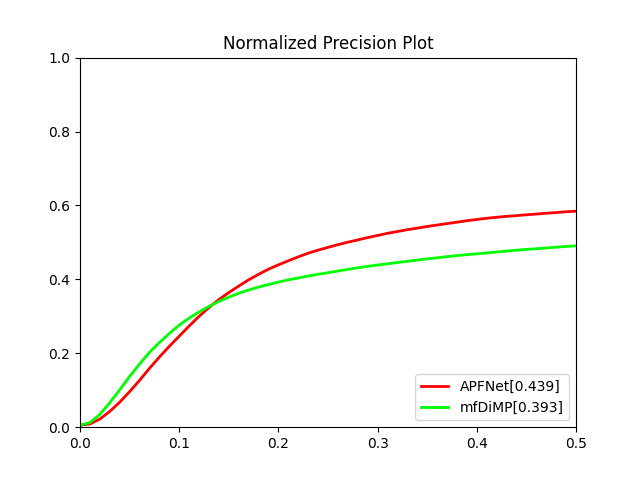
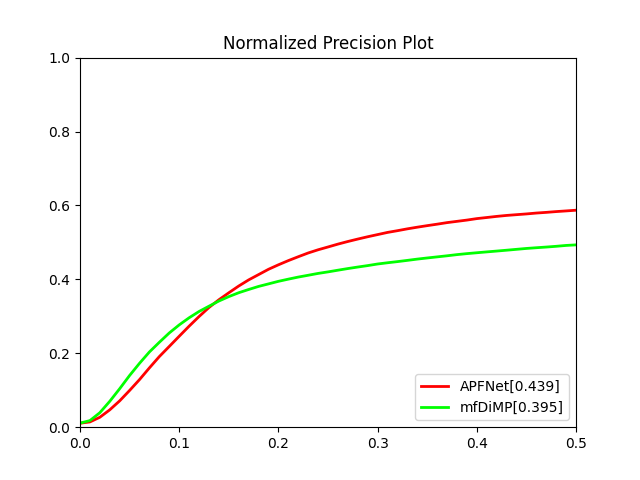
fixed errors in LasHeR. 2023.6.9

diff --git a/metrics/metrics.py b/metrics/metrics.py
@@ -81,48 +81,6 @@ class MSR(Metric):
 
 
 
-
-class NPR(Metric):
-    """
-    Normalized Precision Rate.
-    """
-    def __init__(self, thr=np.linspace(0, 0.5, 51)) -> None:
-        super().__init__()
-        self.thr = thr
-
-
-    def __call__(self, dataset:BaseRGBTDataet, result:TrackerResult, seqs:list):
-        pr=[]
-        for seq_name in seqs:
-            try:
-                gt = dataset[seq_name]
-                serial = result[seq_name]
-                serial[0] = gt[0]       # ignore the first frame
-            except:
-                gt = dataset[seq_name]['visible']
-                serial = result[seq_name]
-                serial[0] = gt[0]       # ignore the first frame
-            # cut off tracking result
-            serial = serial[:len(gt)]   
-            # handle the invailded tracking result
-            for i in range(len(gt)-1, -1, -1):
-                if (gt[i][2]-gt[i][0])<=0 or (gt[i][3]-gt[i][1])<=0:
-                    del gt[i]
-                    del serial[i]
-            res = np.array(serial_process(CLE, serial, gt, need_normalize=True))
-
-            pr_cell = []
-            for i in self.thr:
-                pr_cell.append(np.sum(res<=i)/len(res))
-            pr.append(pr_cell)
-        pr = np.array(pr)
-        pr_val = pr.mean(axis=0)[20]
-        return pr_val, pr
-
-
-
-
-
 class PR(Metric):
     """
     Precision Rate.
@@ -143,19 +101,13 @@ class PR(Metric):
                 gt = dataset[seq_name]['visible']
                 serial = result[seq_name]
                 serial[0] = gt[0]       # ignore the first frame
-            # cut off tracking result
-            serial = serial[:len(gt)]   
-            # handle the invailded tracking result
-            for i in range(len(gt)-1, -1, -1):
-                if (gt[i][2]-gt[i][0])<=0 or (gt[i][3]-gt[i][1])<=0:
-                    del gt[i]
-                    del serial[i]
             res = np.array(serial_process(CLE, serial, gt))
 
             pr_cell = []
             for i in self.thr:
                 pr_cell.append(np.sum(res<=i)/len(res))
             pr.append(pr_cell)
+            
         pr = np.array(pr)
         pr_val = pr.mean(axis=0)[20]
         return pr_val, pr
@@ -185,13 +137,6 @@ class SR(Metric):
                 gt = dataset[seq_name]['visible']
                 serial = result[seq_name]
                 serial[0] = gt[0]       # ignore the first frame
-            # cut off tracking result
-            serial = serial[:len(gt)]   
-            # handle the invailded tracking result
-            for i in range(len(gt)-1, -1, -1):
-                if (gt[i][2]-gt[i][0])<=0 or (gt[i][3]-gt[i][1])<=0 :
-                    del gt[i]
-                    del serial[i]
             res = np.array(serial_process(IoU, serial, gt))
 
             sr_cell = []
@@ -202,4 +147,132 @@ class SR(Metric):
         sr = np.array(sr)
         sr_val = sr.mean()
         return sr_val, sr
+
+
+class SR_LasHeR(Metric):
+    """
+    Success Rate.
+    Different other dataset, LasHeR testingset need to filter some results.
+    """
+    def __init__(self, thr=np.linspace(0, 1, 21)) -> None:
+        super().__init__()
+        self.thr = thr
+
+
+    def __call__(self, dataset:BaseRGBTDataet, result:TrackerResult, seqs:list):
+    
+        sr=[]
+        for seq_name in seqs:
+            try:
+                gt = dataset[seq_name]
+                serial = result[seq_name]
+                serial[0] = gt[0]       # ignore the first frame
+            except:
+                gt = dataset[seq_name]['visible']
+                serial = result[seq_name]
+                serial[0] = gt[0]       # ignore the first frame
+            # cut off tracking result
+            serial = serial[:len(gt)]   
+            # handle the invailded tracking result
+            for i in range(1, len(gt)):
+                if serial[i][2]<=0 or serial[i][3]<=0:
+                    serial[i] = serial[i-1].copy()
+            res = np.array(serial_process(IoU, serial, gt))
+
+            for i in range(len(gt)):
+                if sum(gt[i]<=0):
+                    res[i]=-1
+
+            sr_cell = []
+            for i in self.thr:
+                sr_cell.append(np.sum(res>i)/len(res))
+            sr.append(sr_cell)
+
+        sr = np.array(sr)
+        sr_val = sr.mean()
+        return sr_val, sr
+    
+
+class PR_LasHeR(Metric):
+    """
+    Precision Rate.
+    Different other dataset, LasHeR testingset need to filter some results.
+    """
+    def __init__(self, thr=np.linspace(0, 50, 51)) -> None:
+        super().__init__()
+        self.thr = thr
+
+
+    def __call__(self, dataset:BaseRGBTDataet, result:TrackerResult, seqs:list):
+        pr=[]
+        for seq_name in seqs:
+            try:
+                gt = dataset[seq_name]
+                serial = result[seq_name]
+                serial[0] = gt[0]       # ignore the first frame
+            except:
+                gt = dataset[seq_name]['visible']
+                serial = result[seq_name]
+                serial[0] = gt[0]       # ignore the first frame
+            # cut off tracking result
+            serial = serial[:len(gt)]   
+            # handle the invailded tracking result
+            for i in range(1, len(gt)):
+                if serial[i][2]<=0 or serial[i][3]<=0:
+                    serial[i] = serial[i-1].copy()
+            res = np.array(serial_process(CLE, serial, gt))
+
+            for i in range(len(gt)):
+                if sum(gt[i]<=0):
+                    res[i]=-1
+
+            pr_cell = []
+            for i in self.thr:
+                pr_cell.append(np.sum(res<=i)/len(res))
+            pr.append(pr_cell)
+            
+        pr = np.array(pr)
+        pr_val = pr.mean(axis=0)[20]
+        return pr_val, pr
+
+
+class NPR(Metric):
+    """
+    Normalized Precision Rate.
+    """
+    def __init__(self, thr=np.linspace(0, 0.5, 51)) -> None:
+        super().__init__()
+        self.thr = thr
+
+
+    def __call__(self, dataset:BaseRGBTDataet, result:TrackerResult, seqs:list):
+        pr=[]
+        for seq_name in seqs:
+            try:
+                gt = dataset[seq_name]
+                serial = result[seq_name]
+                serial[0] = gt[0]       # ignore the first frame
+            except:
+                gt = dataset[seq_name]['visible']
+                serial = result[seq_name]
+                serial[0] = gt[0]       # ignore the first frame
+            # cut off tracking result
+            serial = serial[:len(gt)]   
+            # handle the invailded tracking result
+            for i in range(1, len(gt)):
+                if serial[i][2]<=0 or serial[i][3]<=0:
+                    serial[i] = serial[i-1].copy()
+            res = np.array(serial_process(CLE, serial, gt, need_normalize=True))
+
+            for i in range(len(gt)):
+                if sum(gt[i]<=0):
+                    res[i]=-1
+
+            pr_cell = []
+            for i in self.thr:
+                pr_cell.append(np.sum(res<=i)/len(res))
+            pr.append(pr_cell)
+        pr = np.array(pr)
+        pr_val = pr.mean(axis=0)[20]
+        return pr_val, pr
 

diff --git a/utils.py b/utils.py
@@ -21,14 +21,10 @@ def load_text_numpy(path, delimiter=' ', dtype=np.float32):
 
 
 def ltwh_2_ltrb(rect):
-    rect[2] = rect[2] + rect[0]
-    rect[3] = rect[3] + rect[1]
-    return rect
+    return [rect[0], rect[1], rect[2]+rect[0]-1, rect[3]+rect[1]-1]
 
 def ltrb_2_ltwh(rect):
-    rect[2] = rect[2] - rect[0]
-    rect[3] = rect[3] - rect[1]
-    return rect
+    return [rect[0], rect[1], rect[2]-rect[0]+1, rect[3]-rect[1]+1]
 
 def xywh_2_ltrb(rect):
     """
@@ -37,10 +33,10 @@ def xywh_2_ltrb(rect):
     return [rect[0]-rect[2]/2, rect[1]-rect[3]/2, rect[0]+rect[2]/2, rect[1]+rect[3]/2]
 
 def corner_2_ltrb(rect):
-    return [rect[0], rect[1], rect[2], rect[5]]
+    return [rect[0], rect[1], rect[-2-2], rect[-1-2]]
 
 def corner_2_ltwh(rect):
-    return [rect[0], rect[1], rect[2]-rect[0], rect[5]-rect[1]]
+    return [rect[0], rect[1], rect[2]-rect[0]+1, rect[5]-rect[1]+1]
 
 
 def bbox_type_trans(bbox_type_src, bbox_type_new):
@@ -66,24 +62,24 @@ def serial_process(fun, *serial, **dict):
     return res
 
 
-def normalize(cx, cy, gt_w, gt_h):
-    return cx/gt_w, cy/gt_h
+def normalize(cx, cy, gt_w, gt_h, eps=1e-8):
+    return cx/(gt_w+eps), cy/(gt_h+eps)
 
 
 def CLE(rect1, rect2, need_normalize=False):
     """ caculate center location error
     NOTE: Default rect2 is groundtruth
     Args:
-        rect1: (x1, y1, x2, y2)
-        rect2: (x1, y1, x2, y2)
+        rect1: (l, t, w, h)
+        rect2: (l, t, w, h)
     Returns:
         center location error
     """
-    cp1 = [(rect1[2]+rect1[0])/2., (rect1[3]+rect1[1])/2.]
-    cp2 = [(rect2[2]+rect2[0])/2., (rect2[3]+rect2[1])/2.]
+    cp1 = [(rect1[2]-1)/2.+rect1[0], (rect1[3]-1)/2.+rect1[1]]
+    cp2 = [(rect2[2]-1)/2.+rect2[0], (rect2[3]-1)/2.+rect2[1]]
     if need_normalize:
-        cp1 = normalize(cp1[0], cp1[1], rect2[2]-rect2[0]+1, rect2[3]-rect2[1]+1)
-        cp2 = normalize(cp2[0], cp2[1], rect2[2]-rect2[0]+1, rect2[3]-rect2[1]+1)
+        cp1 = normalize(cp1[0], cp1[1], rect2[2], rect2[3])
+        cp2 = normalize(cp2[0], cp2[1], rect2[2], rect2[3])
     d = ((cp1[0]-cp2[0])**2 + (cp1[1]-cp2[1])**2)**0.5
     return d
 
@@ -97,19 +93,19 @@ def IoU(rect1, rect2):
         iou
     """
     # overlap
-    x1, y1, x2, y2 = rect1[0], rect1[1], rect1[2], rect1[3]
-    tx1, ty1, tx2, ty2 = rect2[0], rect2[1], rect2[2], rect2[3]
+    x1, y1, x2, y2 = ltwh_2_ltrb(rect1)
+    tx1, ty1, tx2, ty2 = ltwh_2_ltrb(rect2)
 
     xx1 = np.maximum(tx1, x1)
     yy1 = np.maximum(ty1, y1)
     xx2 = np.minimum(tx2, x2)
     yy2 = np.minimum(ty2, y2)
 
-    ww = np.maximum(0, xx2 - xx1)
-    hh = np.maximum(0, yy2 - yy1)
+    ww = np.maximum(0, xx2 - xx1 +1)
+    hh = np.maximum(0, yy2 - yy1 +1)
 
-    area = (x2-x1) * (y2-y1)
-    target_a = (tx2-tx1) * (ty2 - ty1)
+    area = rect1[-1]*rect1[-2]
+    target_a = rect2[-1]*rect2[-2]
     inter = ww * hh
     iou = inter / (area + target_a - inter)
     return iou

diff --git a/dataset/basedataset.py b/dataset/basedataset.py
@@ -30,9 +30,9 @@ class TrackerResult:
     def __init__(self, tracker_name, path:str, seqs:list, prefix:str, bbox_type:str) -> None:
         self.tracker_name = tracker_name
         self.seqs_name = seqs
-        self.bbox_transfun = bbox_type_trans(bbox_type, 'ltrb')
+        self.bbox_transfun = bbox_type_trans(bbox_type, 'ltwh')
         self.seqs_result = initial_result_file(path, seqs, self.bbox_transfun, prefix)
-        self.bbox_type = 'ltrb'
+        self.bbox_type = 'ltwh'
 
     def __getitem__(self, index):
         if isinstance(index, int):
@@ -65,8 +65,8 @@ class BaseRGBTDataet:
         """
         self.gt_path = gt_path
 
-        self.bbox_transfun = bbox_type_trans(bbox_type, 'ltrb')
-        self.bbox_type = 'ltrb'
+        self.bbox_transfun = bbox_type_trans(bbox_type, 'ltwh')
+        self.bbox_type = 'ltwh'
 
         self.seqs_name = seqs
         self.ALL = tuple(self.seqs_name)

diff --git a/dataset/lasher_dataset.py b/dataset/lasher_dataset.py
@@ -2,7 +2,7 @@
 from dataset.basedataset import BaseRGBTDataet
 from utils import *
 import os
-from metrics import PR,SR,NPR
+from metrics import PR_LasHeR,SR_LasHeR,NPR
 
 class LasHeR(BaseRGBTDataet):
     """
@@ -15,8 +15,8 @@ class LasHeR(BaseRGBTDataet):
         super().__init__(gt_path=gt_path, seqs=seqs, bbox_type='ltwh')
 
         self.name = 'LasHeR_test'
-        self.PR_fun = PR()
-        self.SR_fun = SR()
+        self.PR_fun = PR_LasHeR()
+        self.SR_fun = SR_LasHeR()
         self.NPR_fun = NPR()
 
         # Challenge attributes

diff --git a/eval_lasher.py b/eval_lasher.py
@@ -3,7 +3,6 @@ from dataset import LasHeR
 lasher = LasHeR()
 
 """
-NOTE: LasHeR will currently have an offset of less than 0.01
 LasHeR have 3 benchmarks: PR, NPR, SR
 """
 
@@ -25,6 +24,10 @@ print(pr_dict["mfDiMP"][0])
 npr_dict = lasher.NPR()
 print(npr_dict["APFNet"][0])
 print(npr_dict["mfDiMP"][0])
+
+sr_dict = lasher.SR()
+print(sr_dict["APFNet"][0])
+print(sr_dict["mfDiMP"][0])
 
 lasher.draw_plot(metric_fun=lasher.PR)
 lasher.draw_plot(metric_fun=lasher.NPR)

diff --git a/metrics/__init__.py b/metrics/__init__.py
@@ -1,1 +1,1 @@
-from .metrics import MPR,MSR,SR,PR,NPR
+from .metrics import MPR,MSR,SR,PR,NPR,PR_LasHeR,SR_LasHeR

diff --git a/README.md b/README.md
@@ -8,8 +8,6 @@ This project was created for the convenience of RGBT Tracking researchers. By ut
 - Precision plot and other plot are available.
 - Supports GTOT, RGBT210, RGBT234, LasHeR datasets
 
-> LasHeR will have an error of less than 0.01, it is recommended to retest it on the original toolkit
-
 # Evaluate and Visualize
 
 We provide the ground truth file for RGBT234, so you can directly call it.
